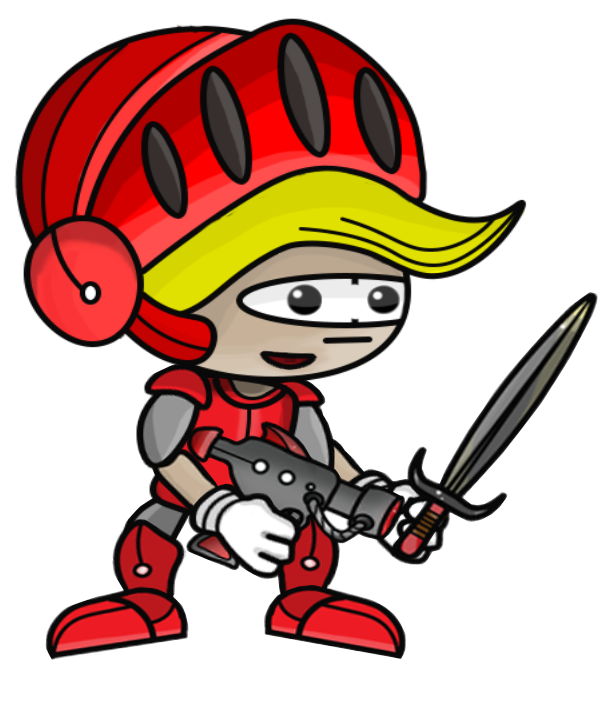
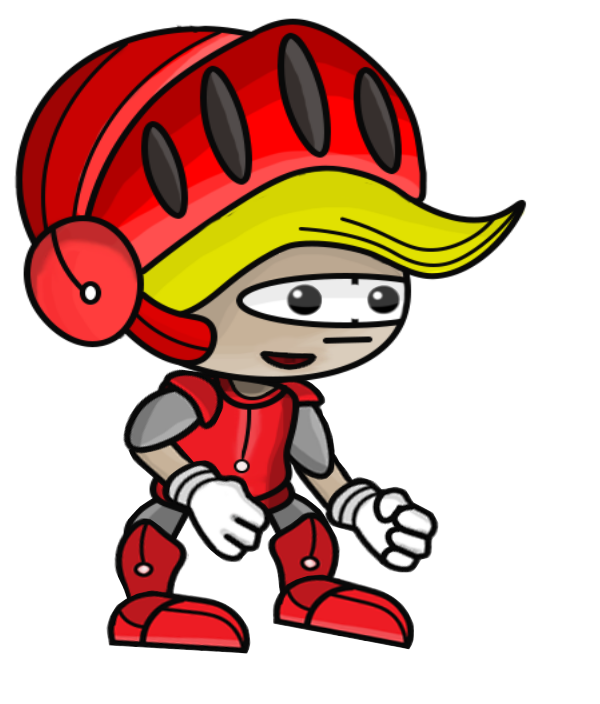
Se agregaron 9 imagenes del personaje para la animacion, se cambia el cooldown a 50 para mayor velocidad del paso, se cambia el rango de las animaciones a 12 para agregar a la lista

Changed region(s): [[0.06, 0.4062, 1.0, 0.9375]]

diff --git a/personaje.py b/personaje.py
@@ -12,7 +12,7 @@ class Personaje:
         self.forma.center = (x,y) # Constructor del punto inicial de la forma del personaje
 
     def update(self): # metodo para actualizar la animacion
-        cooldown_animaciones = 500 # tiempo de la imagen antes de cambiar a otra
+        cooldown_animaciones = 50 # tiempo de la imagen antes de cambiar a otra
         self.image = self.animaciones[self.frame_index] # actualiza la imagen por cada frame_index
         if pygame.time.get_ticks() - self.update_time >= cooldown_animaciones: # Diferencia del tiempo actual frente al update time
             self.frame_index = self.frame_index + 1 # Se actualiza el frame_index cada vez que se llegue al cooldown

diff --git a/variables.py b/variables.py
@@ -9,7 +9,7 @@ def escalar_img(image,scale):
     return nueva_imagen
 
 animaciones = []
-for i in range(2):
+for i in range(12):
     img = pygame.image.load(f"assets//images//characters//player//bitmap{i}.png") #Direccion de la imagen Personaje
     img = escalar_img(img,constantes.SCALA_PERSONAJE) # Tamaño de la imagen del personaje
     animaciones.append(img) # Guardar las imagenes en animaciones
